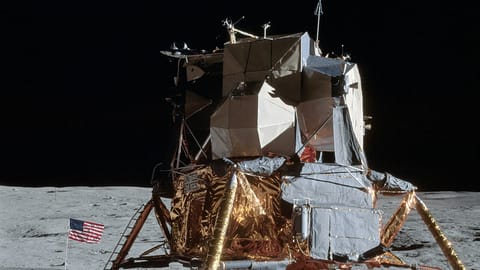
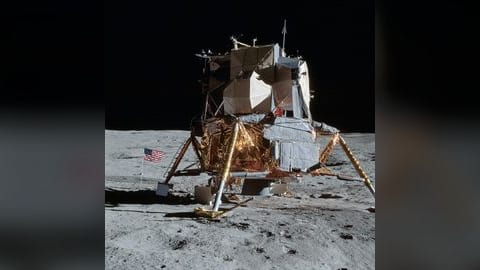
Lander photos: show the whole lander for Apollo 12, 14 and 15 (fit inside, blurred sides); new Apollo 15 photo AS15-88-11866

diff --git a/scripts/assets/prepare-lander-images.ts b/scripts/assets/prepare-lander-images.ts
@@ -18,6 +18,8 @@ interface Pick {
   caption: string;
   /** Optional square icon crop in the 480x270 card image (when the auto crop misses the lander). */
   iconBox?: { left: number; top: number; size: number };
+  /** "contain": show the whole photo, sides filled with a blurred, darkened copy (tall landers). */
+  fit?: "contain";
 }
 
 const PICKS: Pick[] = [
@@ -27,11 +29,11 @@ const PICKS: Pick[] = [
     caption: "IM-1 Nova-C lander Odysseus before launch." },
   { id: "a11", file: "As11-40-5927.jpg", kind: "on the Moon",
     caption: "Apollo 11 Lunar Module Eagle at Tranquility Base, with Buzz Aldrin (AS11-40-5927)." },
-  { id: "a12", file: "Apollo-12-LM.jpg", kind: "on the Moon", caption: "Apollo 12 Lunar Module Intrepid on the Moon." },
-  { id: "a14", file: "Apollo 14 Lunar Module (LM) on the moon.jpg", kind: "on the Moon",
+  { id: "a12", fit: "contain", file: "Apollo-12-LM.jpg", kind: "on the Moon", caption: "Apollo 12 Lunar Module Intrepid on the Moon." },
+  { id: "a14", fit: "contain", file: "Apollo 14 Lunar Module (LM) on the moon.jpg", kind: "on the Moon",
     caption: "Apollo 14 Lunar Module Antares on the Moon (AS14-66-9277)." },
-  { id: "a15", file: "Apollo 15 Lunar Module Falcon - 51358762770.jpg", kind: "on the Moon",
-    caption: "Apollo 15 Lunar Module Falcon at Hadley-Apennine, tilted on a crater rim." },
+  { id: "a15", fit: "contain", file: "Apollo 15 flag, rover, LM, Irwin.jpg", kind: "on the Moon",
+    caption: "Apollo 15: James Irwin beside Lunar Module Falcon and the rover at Hadley-Apennine (AS15-88-11866)." },
   { id: "a16", file: "View of the Apollo 16 Lunar Module on the lunar surface (as16-113-18334).jpg", kind: "on the Moon",
     caption: "Apollo 16 Lunar Module Orion at Descartes (AS16-113-18334)." },
   { id: "a17", file: "Apollo 17 first test of the lunar rover AS17-147-22527HR.jpg", kind: "on the Moon",
@@ -102,7 +104,18 @@ for (const p of PICKS) {
     buf = Buffer.from(await r.arrayBuffer());
     cache.set(meta.url, buf);
   }
-  const card = await sharp(buf).resize(480, 270, { fit: "cover", position: "attention" }).jpeg({ quality: 80, mozjpeg: true }).toBuffer();
+  let card: Buffer;
+  if (p.fit === "contain") {
+    const bg = await sharp(buf).resize(480, 270, { fit: "cover" }).blur(16).modulate({ brightness: 0.5 }).toBuffer();
+    const fg = await sharp(buf).resize(480, 270, { fit: "inside" }).toBuffer();
+    const fm = await sharp(fg).metadata();
+    card = await sharp(bg)
+      .composite([{ input: fg, left: Math.round((480 - (fm.width ?? 480)) / 2), top: Math.round((270 - (fm.height ?? 270)) / 2) }])
+      .jpeg({ quality: 82, mozjpeg: true })
+      .toBuffer();
+  } else {
+    card = await sharp(buf).resize(480, 270, { fit: "cover", position: "attention" }).jpeg({ quality: 80, mozjpeg: true }).toBuffer();
+  }
   await writeFile(path.join(outDir, `${p.id}.jpg`), card);
   const icon = p.iconBox
     ? sharp(card).extract({ left: p.iconBox.left, top: p.iconBox.top, width: p.iconBox.size, height: p.iconBox.size }).resize(96, 96)

diff --git a/src/styles/global.css b/src/styles/global.css
@@ -229,5 +229,4 @@ input.keyfield, select.keyfield {
   white-space: nowrap; overflow: hidden; text-overflow: ellipsis; }
 .popup-photo figcaption a { color: inherit; }
 .detail-photo img { display: block; width: 100%; aspect-ratio: 16 / 9; object-fit: cover; border-radius: var(--radius-sm); }
-@media (max-width: 760px) { .popup-photo img { aspect-ratio: 21 / 9; } }
 @media (max-height: 860px) { .legend.with-popup { display: none; } }

diff --git a/CREDITS.md b/CREDITS.md
@@ -34,7 +34,7 @@ From Wikimedia Commons, licence checked at download time by `scripts/assets/prep
 | Apollo 11 | Apollo 11 Lunar Module Eagle at Tranquility Base, with Buzz Aldrin (AS11-40-5927). (on the Moon) | Neil Armstrong | Public domain | https://commons.wikimedia.org/wiki/File:As11-40-5927.jpg |
 | Apollo 12 | Apollo 12 Lunar Module Intrepid on the Moon. (on the Moon) | NASA | Public domain | https://commons.wikimedia.org/wiki/File:Apollo-12-LM.jpg |
 | Apollo 14 | Apollo 14 Lunar Module Antares on the Moon (AS14-66-9277). (on the Moon) | NASA | Public domain | https://commons.wikimedia.org/wiki/File:Apollo_14_Lunar_Module_(LM)_on_the_moon.jpg |
-| Apollo 15 | Apollo 15 Lunar Module Falcon at Hadley-Apennine, tilted on a crater rim. (on the Moon) | Apollo Image Gallery | Public domain | https://commons.wikimedia.org/wiki/File:Apollo_15_Lunar_Module_Falcon_-_51358762770.jpg |
+| Apollo 15 | Apollo 15: James Irwin beside Lunar Module Falcon and the rover at Hadley-Apennine (AS15-88-11866). (on the Moon) | Astronaut David R. Scott, Apollo 15 commander. | Public domain | https://commons.wikimedia.org/wiki/File:Apollo_15_flag,_rover,_LM,_Irwin.jpg |
 | Apollo 16 | Apollo 16 Lunar Module Orion at Descartes (AS16-113-18334). (on the Moon) | NASA Johnson Space Center | Public domain | https://commons.wikimedia.org/wiki/File:View_of_the_Apollo_16_Lunar_Module_on_the_lunar_surface_(as16-113-18334).jpg |
 | Apollo 17 | Apollo 17: Eugene Cernan tests the rover beside Lunar Module Challenger (AS17-147-22527). (on the Moon) | NASA | Public domain | https://commons.wikimedia.org/wiki/File:Apollo_17_first_test_of_the_lunar_rover_AS17-147-22527HR.jpg |
 | Blue Ghost 1 | Firefly Blue Ghost lander mockup (Space Symposium 2025). (full-scale model) | Blervis | CC BY 4.0 | https://commons.wikimedia.org/wiki/File:Firefly_Blue_Ghost_lander_mockup.jpg |
